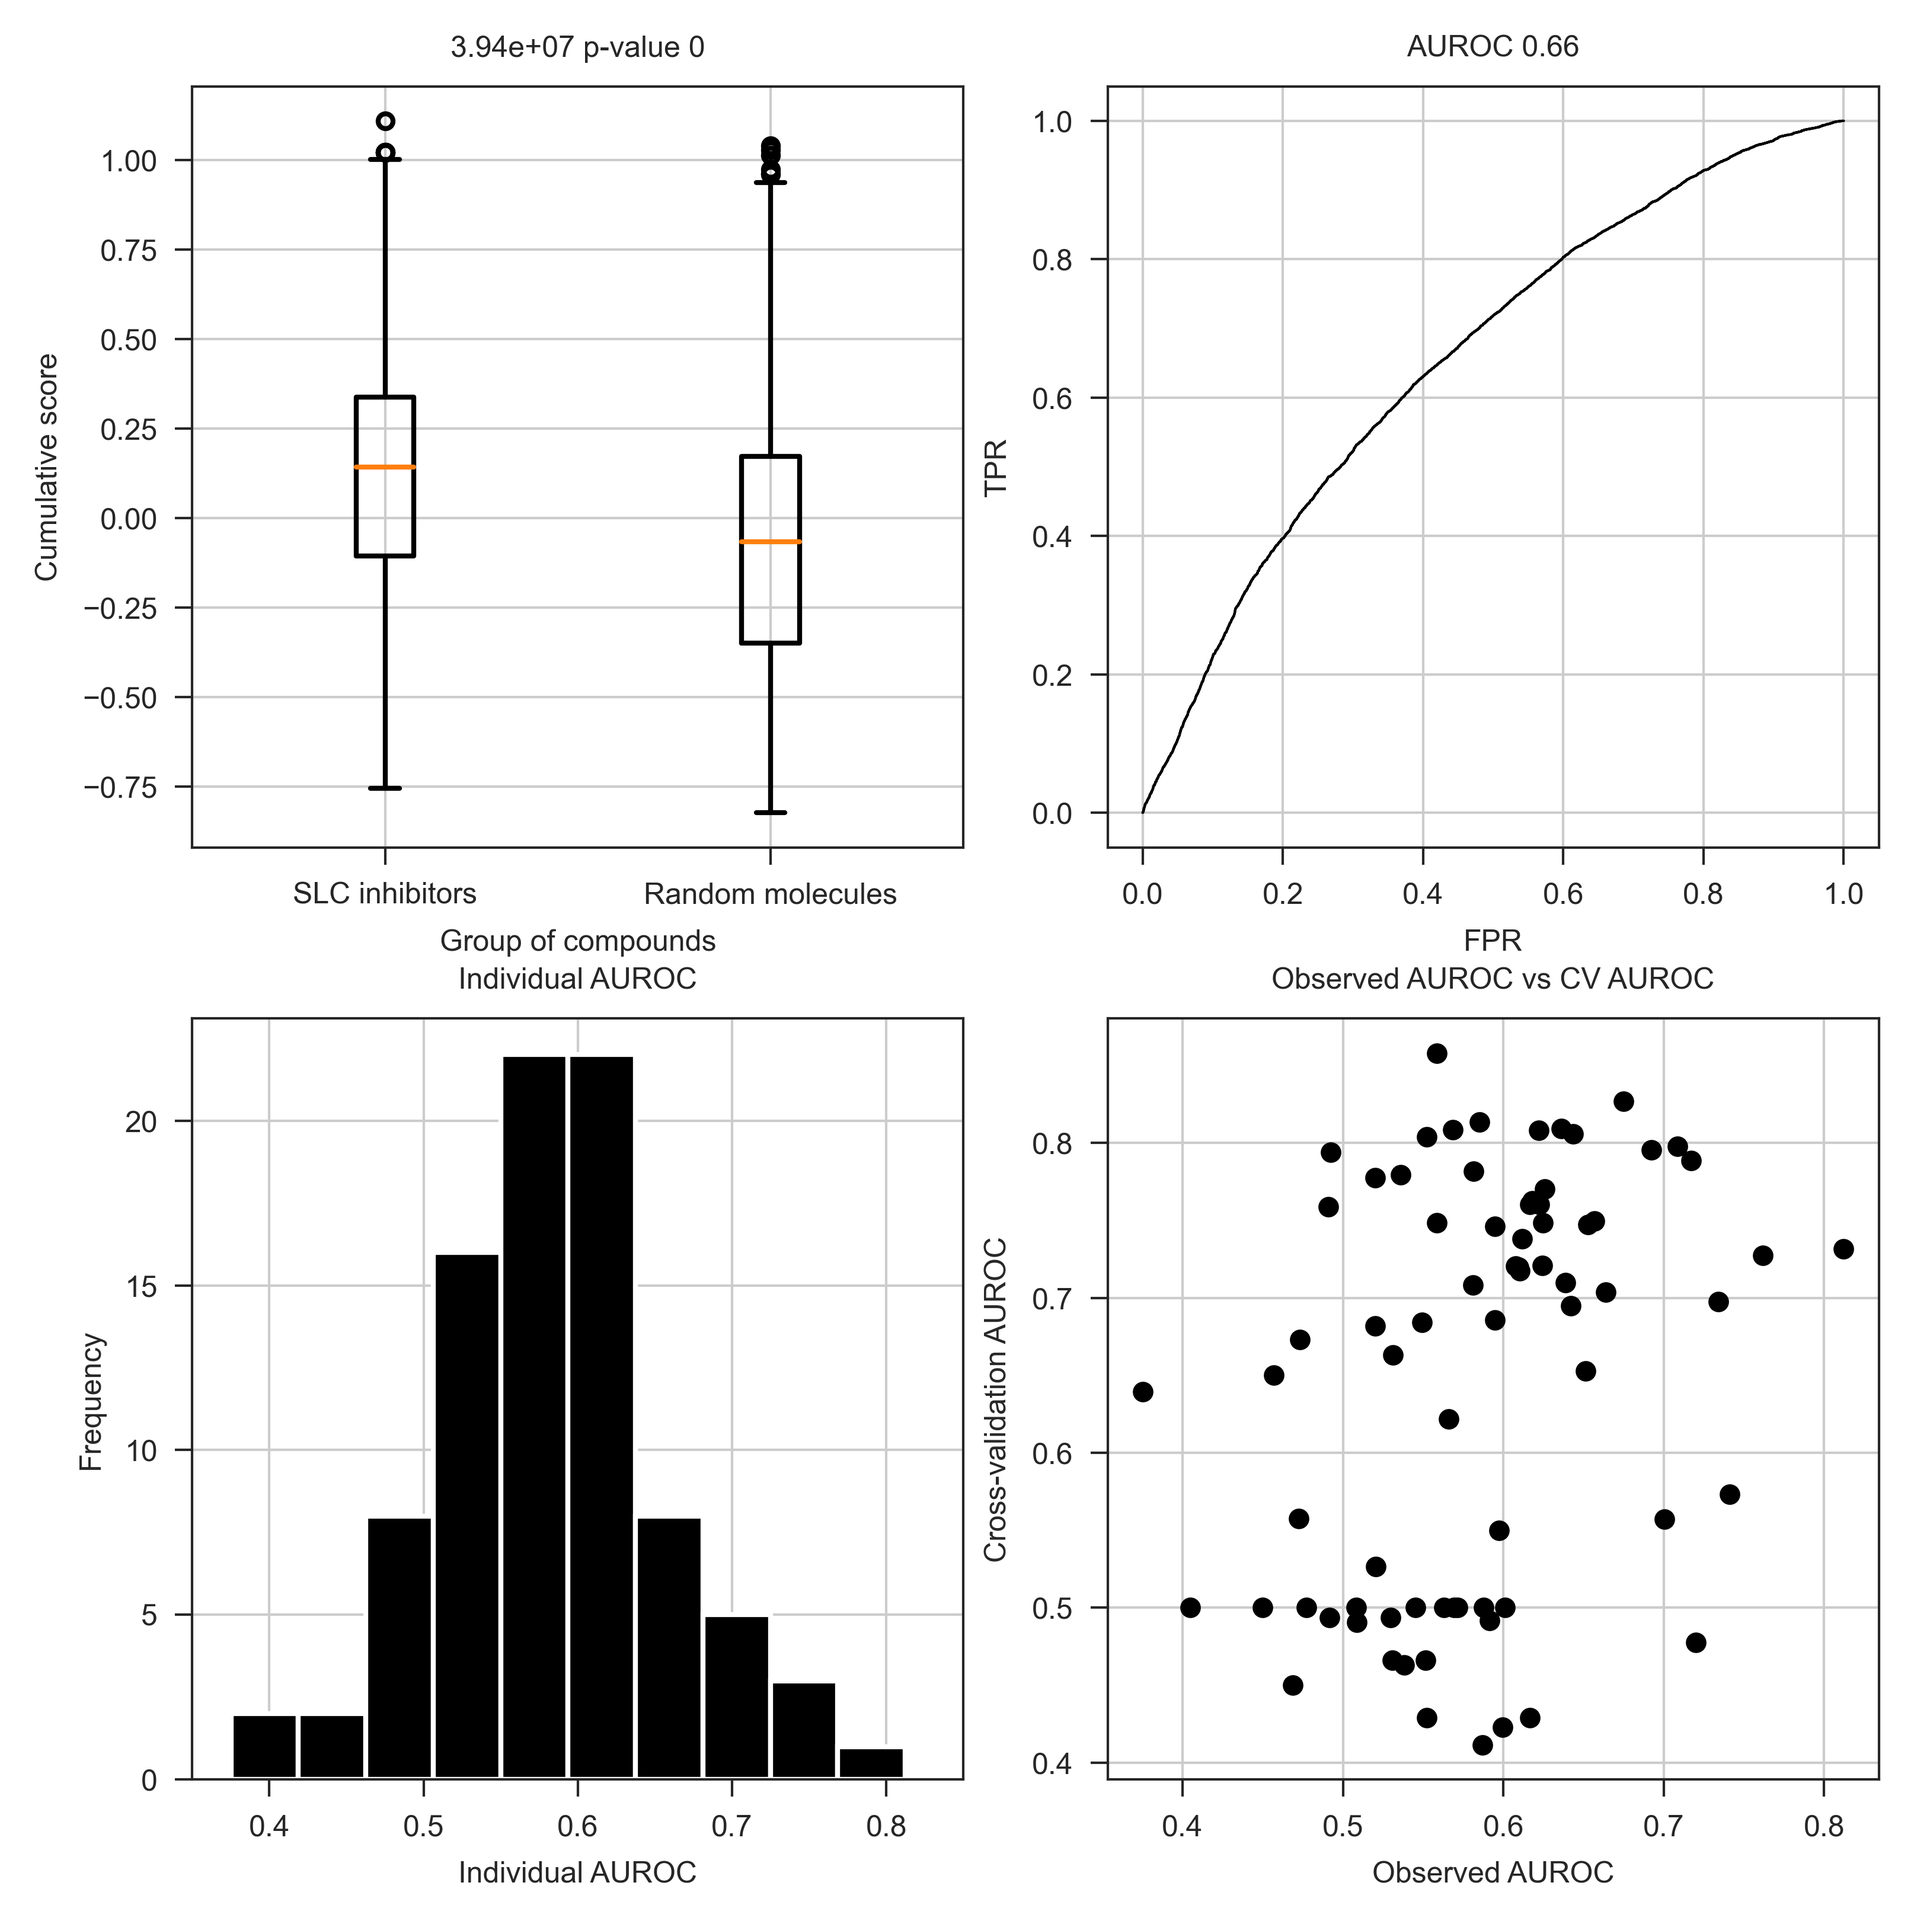
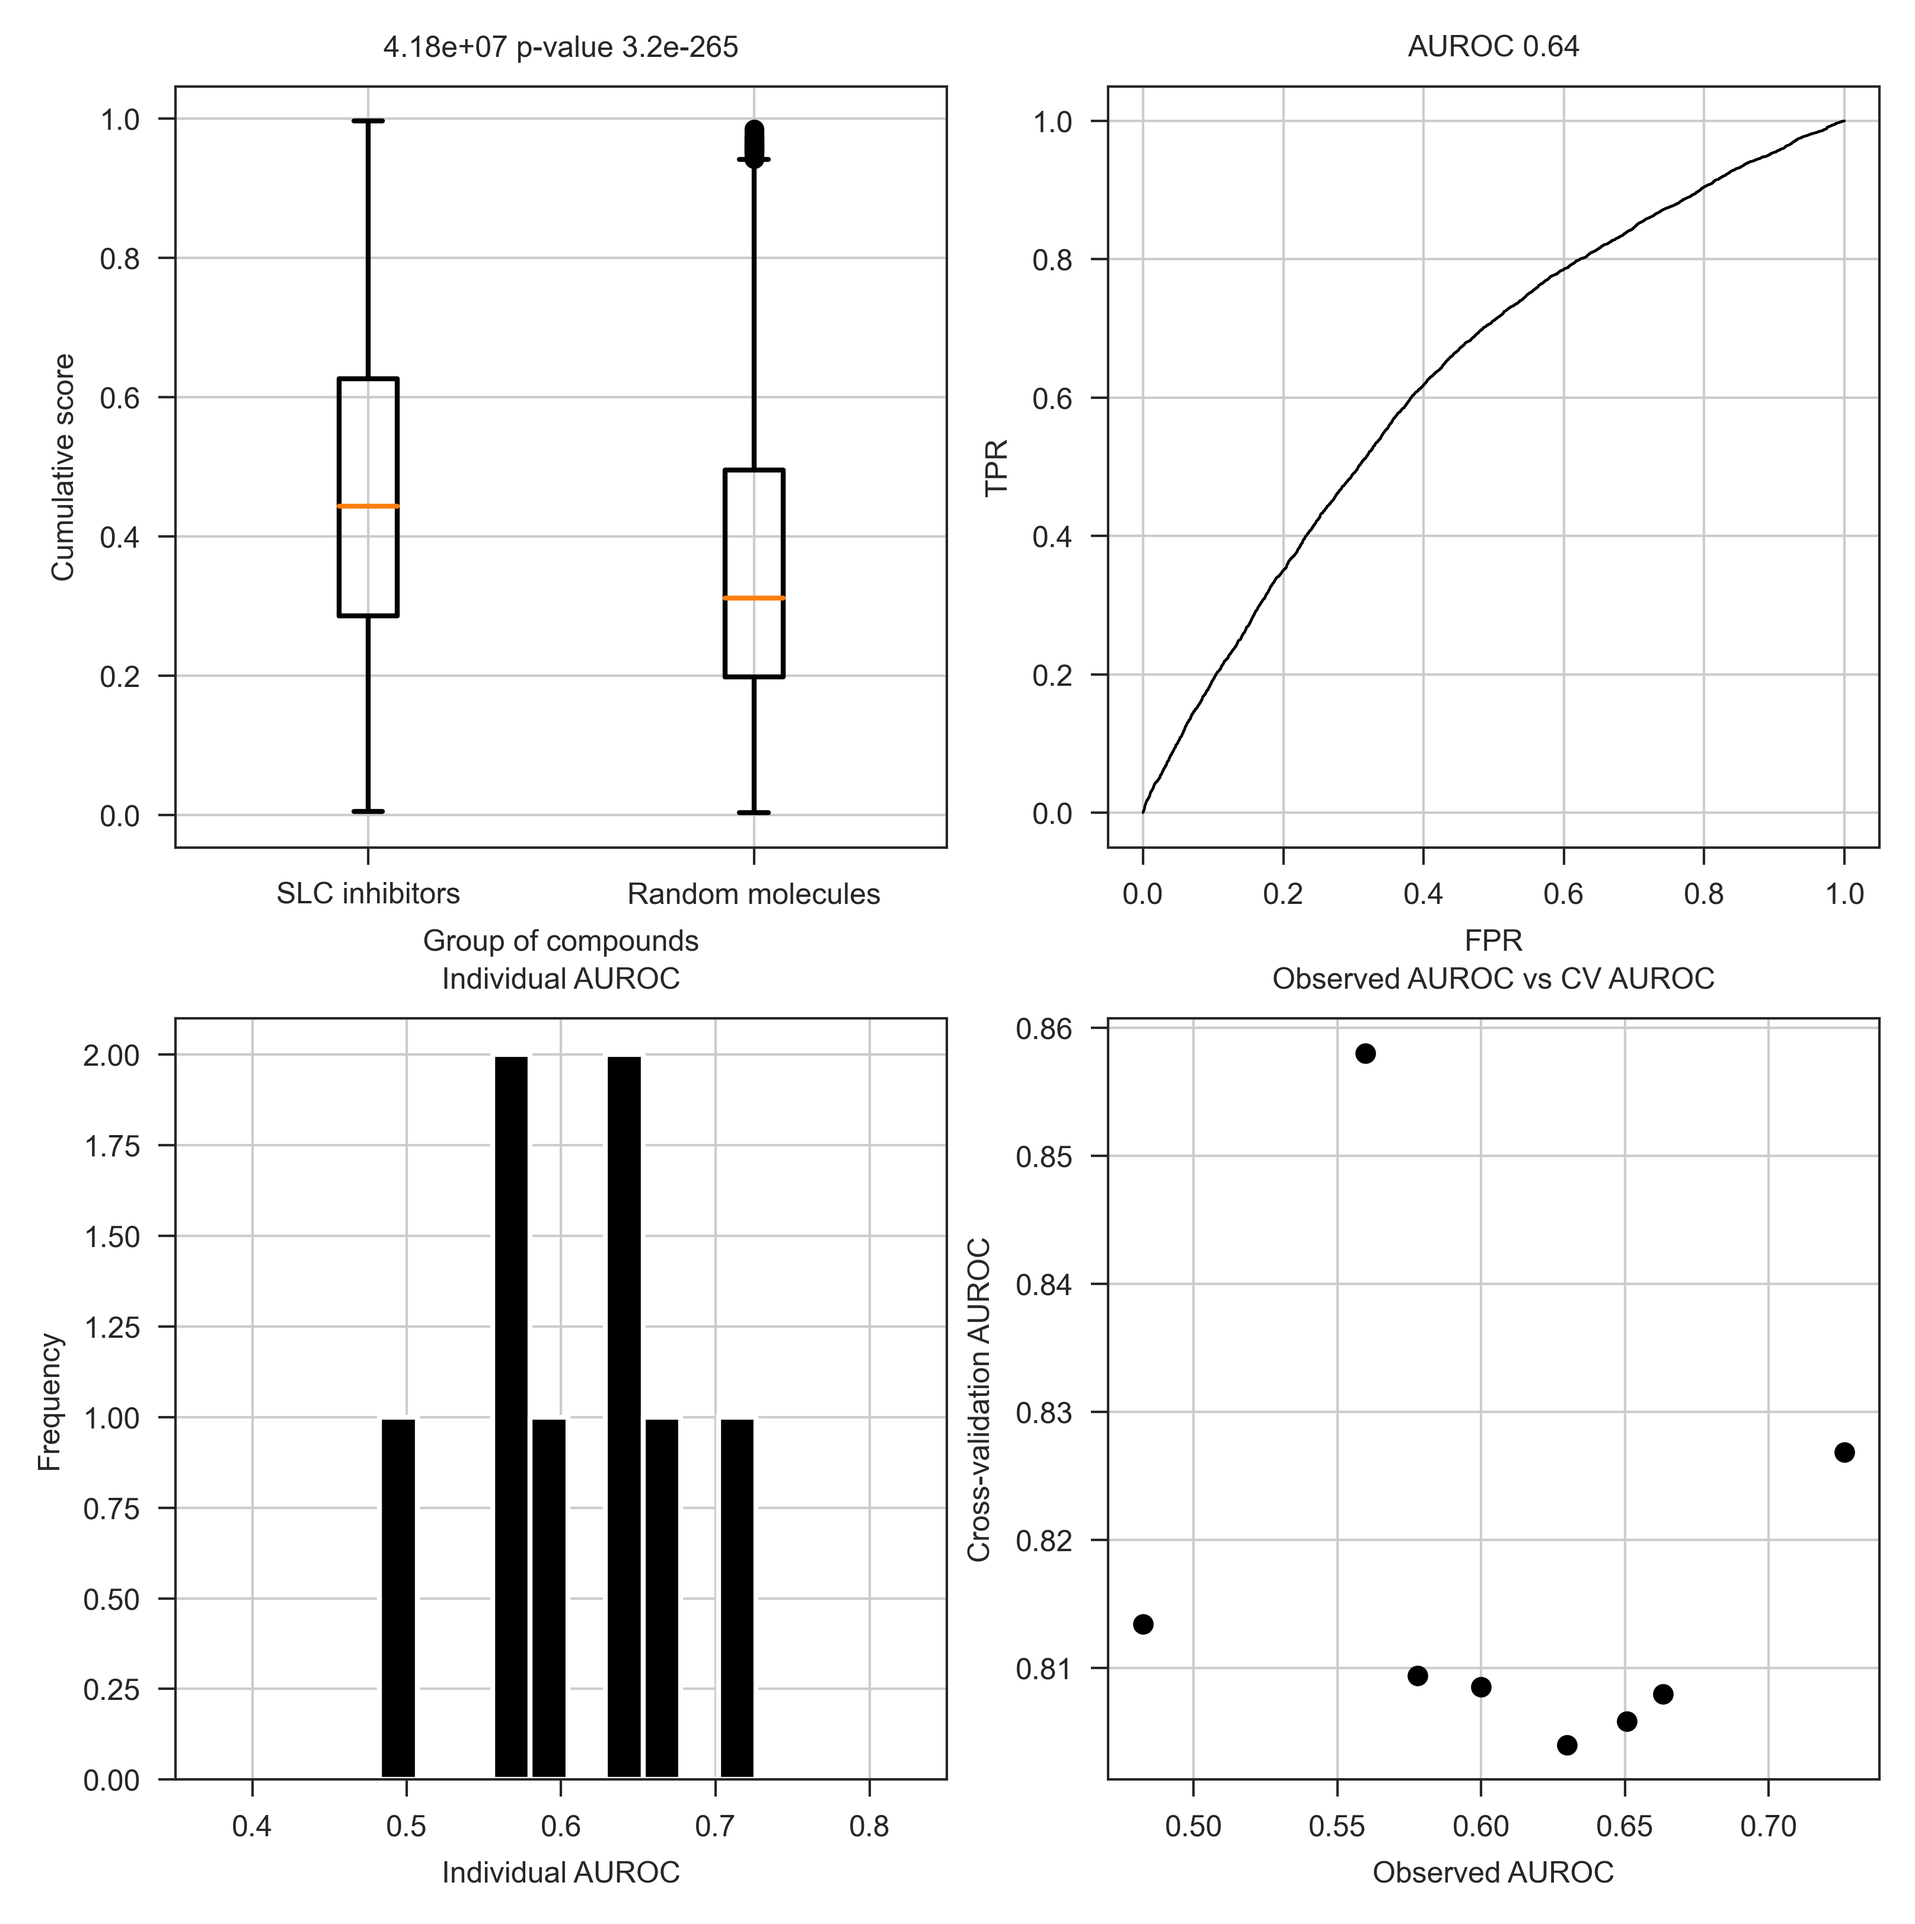
bugfixing

diff --git a/src/model.py b/src/model.py
@@ -53,11 +53,14 @@ class BinaryBalancer(object):
             idxs_to_sample = [i for i in range(neighs.shape[1])]
             w /= w.sum()
             for i in range(X_s.shape[0]):
-                gap = random.random()
-                j = int(np.random.choice(idxs_to_sample, p=w))
-                neigh_idx = neighs[i,j]
-                d = X[neigh_idx] - X_s[i]
-                R += [X_s[i] + gap * d]
+                if len(idxs_to_sample) == 0:
+                    R += [X_s[i]]
+                else:
+                    gap = random.random()
+                    j = int(np.random.choice(idxs_to_sample, p=w))
+                    neigh_idx = neighs[i,j]
+                    d = X[neigh_idx] - X_s[i]
+                    R += [X_s[i] + gap * d]
             X_s = np.array(R)
         X = np.vstack([X, X_s])
         return X

diff --git a/scripts/1_gsf_predictions.py b/scripts/1_gsf_predictions.py
@@ -82,7 +82,7 @@ print(X.shape)
 
 model = OnTheFlyModel()
 R = []
-slcs = slcs[68:]
+slcs = slcs
 for slc in tqdm(slcs):
     hit_selector = HitSelector([slc])
     data = hit_selector.select(max_hit_fragments=200)
